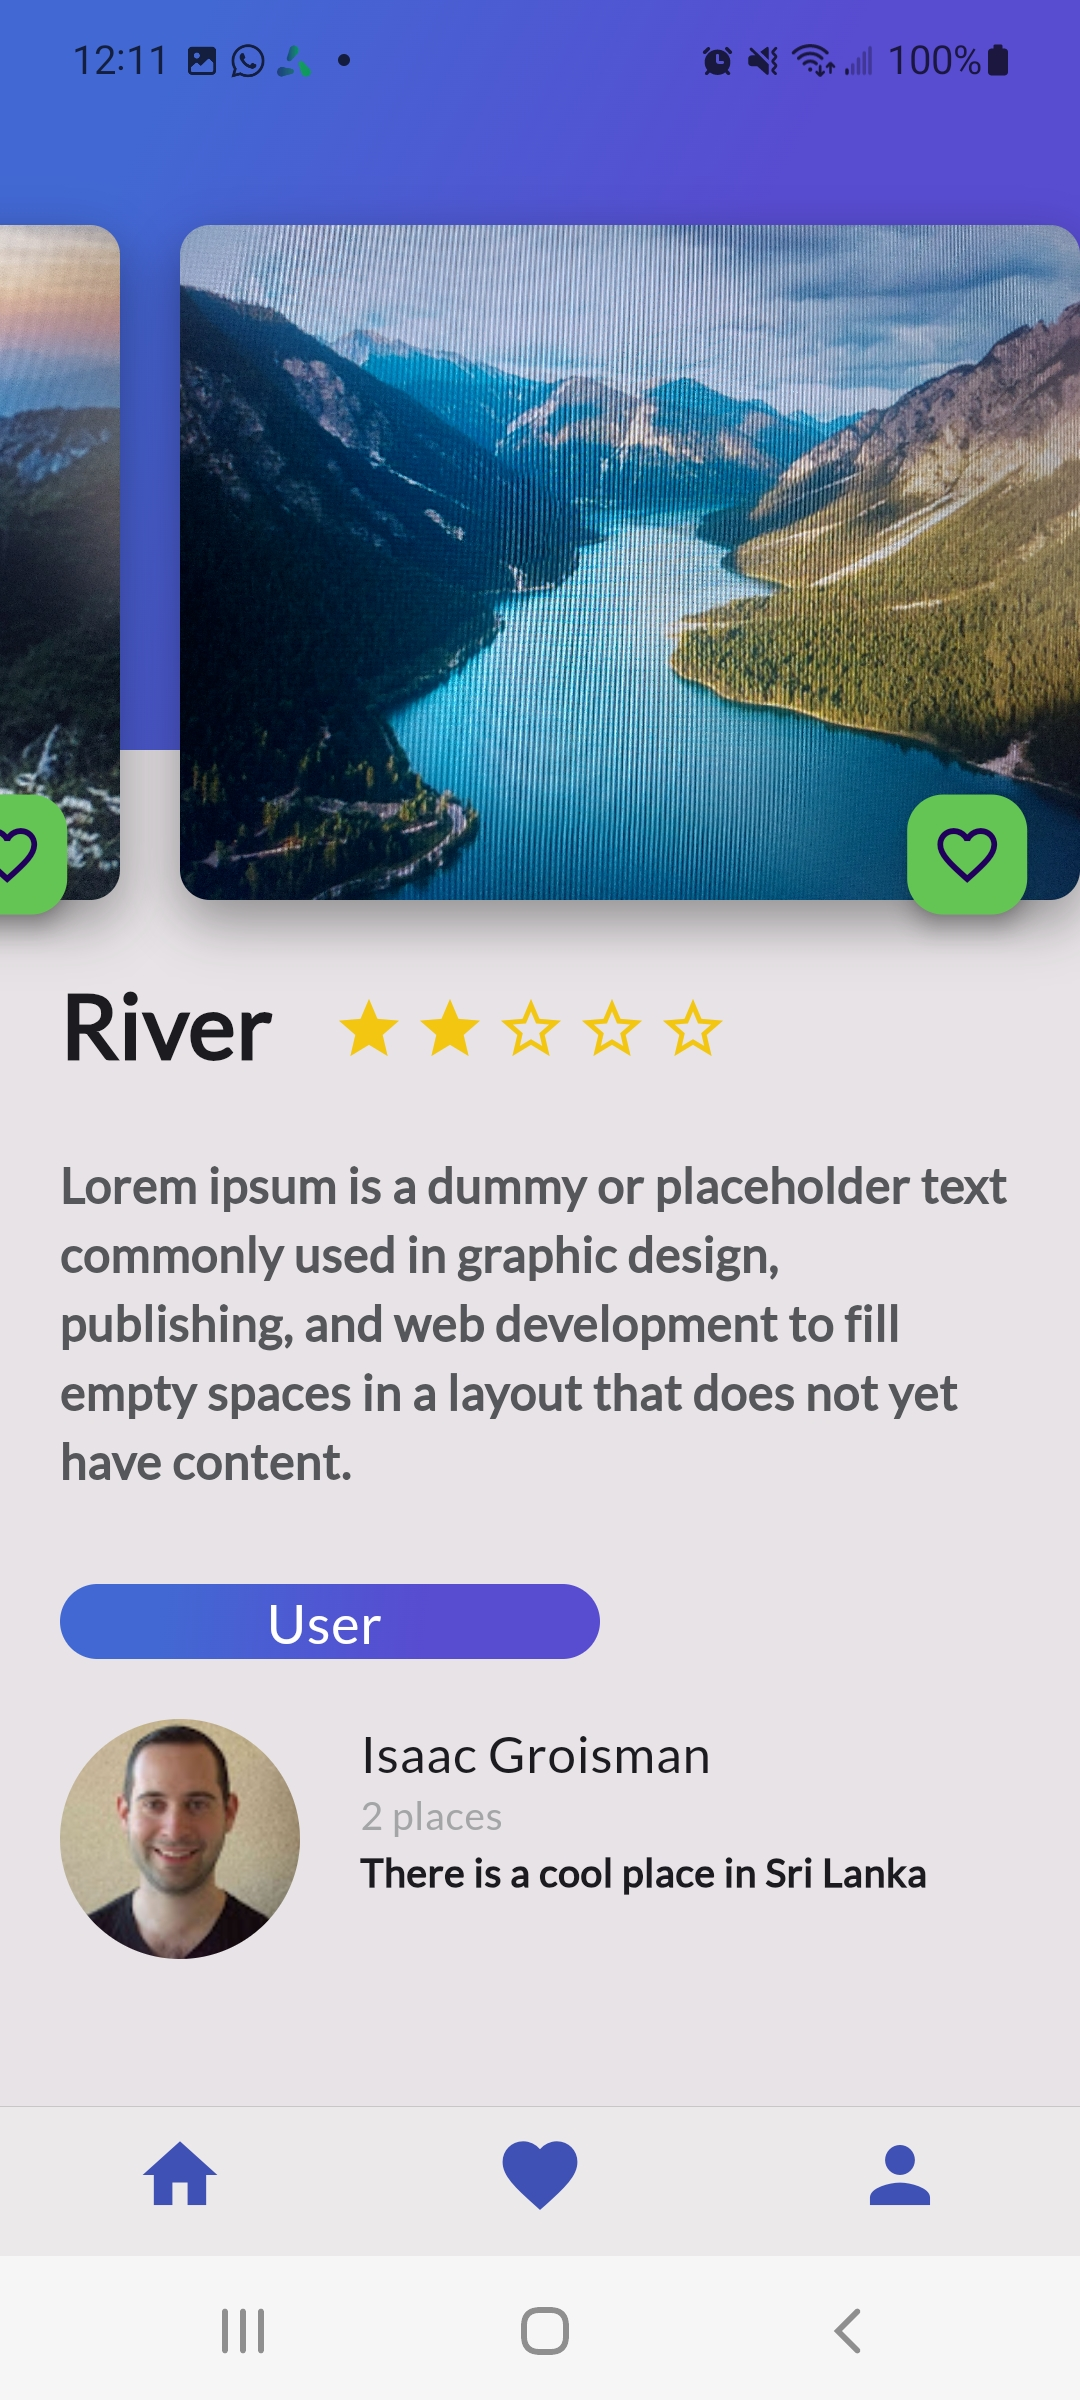
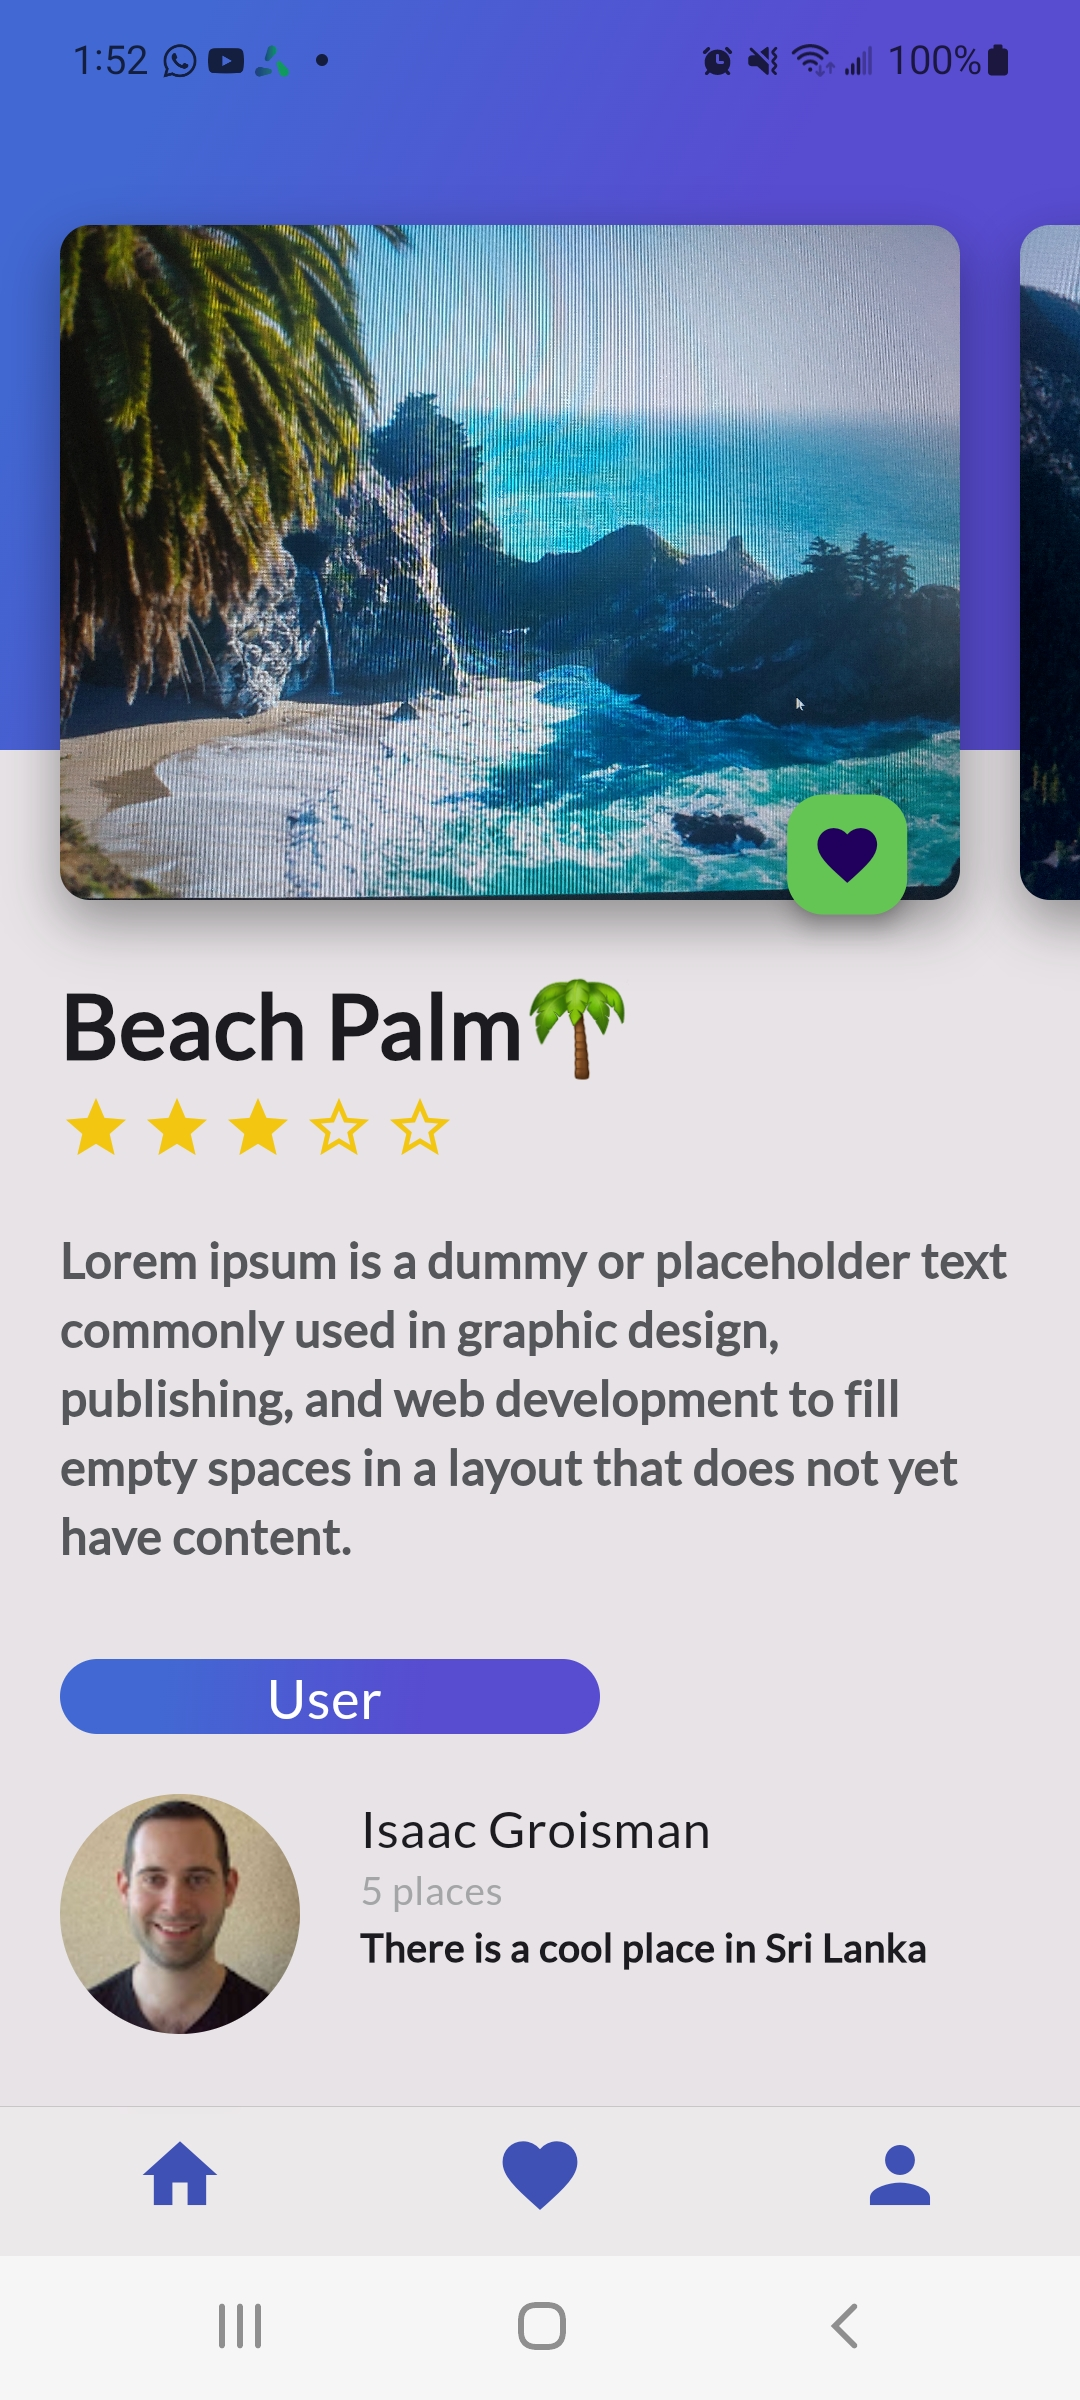
fixed issue with stars and title in home screen

diff --git a/lib/Place/ui/widgets/description_place.dart b/lib/Place/ui/widgets/description_place.dart
@@ -17,7 +17,7 @@ class DescriptionPlace extends StatelessWidget {
         // Full star
         starWidgets.add(
           Container(
-            margin: const EdgeInsets.only(top: 323.0, right: 3.0),
+            margin: const EdgeInsets.only(top: 0, right: 3.0),
             child: const Icon(
               Icons.star,
               color: Color(0xFFf2C611),
@@ -28,7 +28,7 @@ class DescriptionPlace extends StatelessWidget {
         // Half star
         starWidgets.add(
           Container(
-            margin: const EdgeInsets.only(top: 323.0, right: 3.0),
+            margin: const EdgeInsets.only(top: 0, right: 3.0),
             child: const Icon(
               Icons.star_half,
               color: Color(0xFFf2C611),
@@ -39,7 +39,7 @@ class DescriptionPlace extends StatelessWidget {
         // Empty star
         starWidgets.add(
           Container(
-            margin: const EdgeInsets.only(top: 323.0, right: 3.0),
+            margin: const EdgeInsets.only(top: 0, right: 3.0),
             child: const Icon(
               Icons.star_border,
               color: Color(0xFFf2C611),
@@ -53,21 +53,27 @@ class DescriptionPlace extends StatelessWidget {
 
   @override
   Widget build(BuildContext context) {
-    final titleStars = Row(
-      children: <Widget>[
-        Container(
-          margin: const EdgeInsets.only(top: 320.0, left: 20.0, right: 20.0),
-          child: Text(
+    final titleStars = Container(
+      margin: const EdgeInsets.only(top: 320.0, left: 20.0, right: 20.0),
+      child: Column(
+        crossAxisAlignment: CrossAxisAlignment.start,
+        mainAxisSize: MainAxisSize.min,  // This prevents extra spacing
+        children: <Widget>[
+          Text(
             namePlace,
             style: const TextStyle(
-                fontFamily: "Lato",
-                fontSize: 30.0,
-                fontWeight: FontWeight.w900),
+              fontFamily: "Lato",
+              fontSize: 30.0,
+              fontWeight: FontWeight.w900
+            ),
             textAlign: TextAlign.left,
           ),
-        ),
-        Row(children: buildStars()), // Dynamically created stars
-      ],
+          //const SizedBox(height: 5.0),  // Add small controlled spacing
+          Row(
+            children: buildStars(),
+          ),
+        ],
+      ),
     );
 
     final description = Container(
